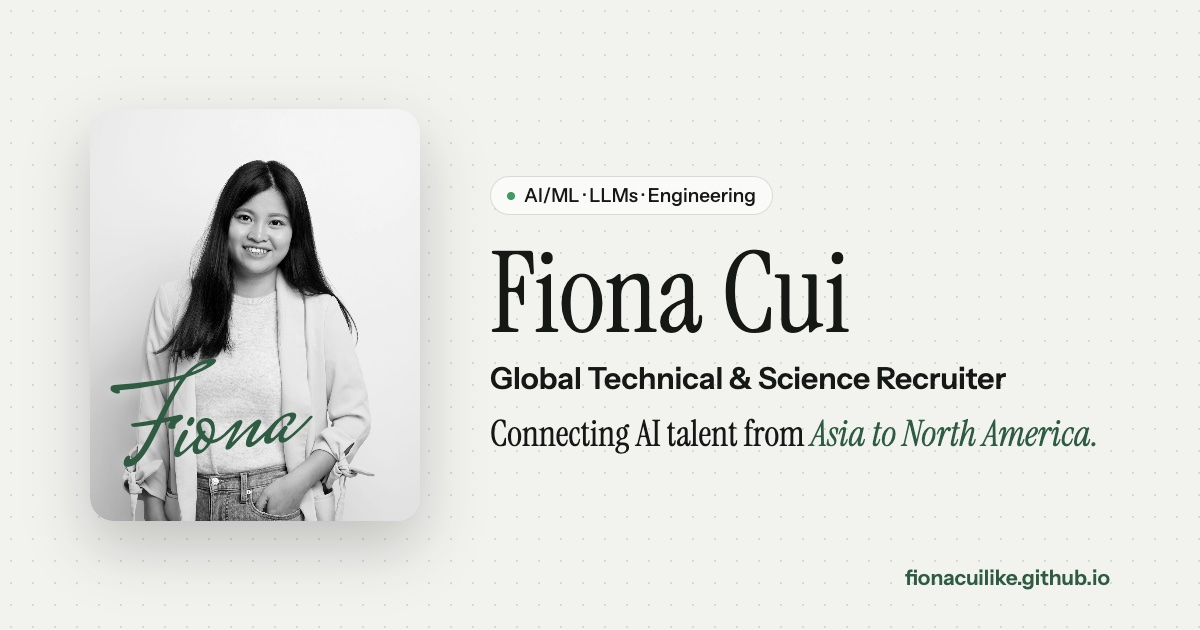
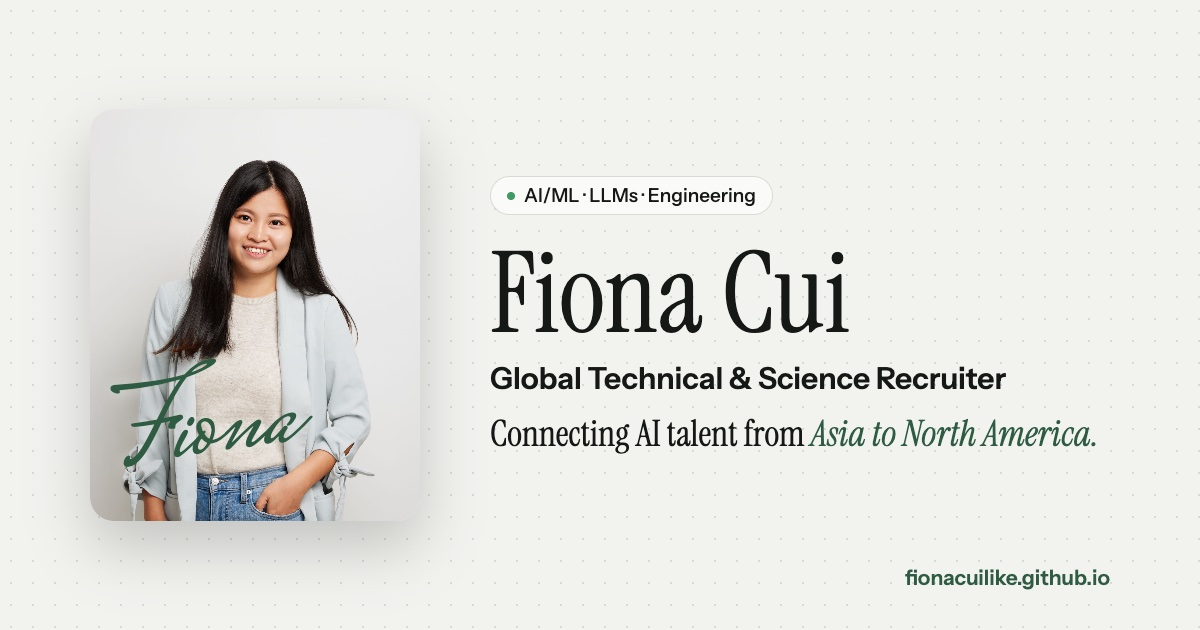
Show photos in colour
The hero portrait, Giving Back photos and social card are now in colour.
The cursor colour-reveal no longer has a purpose, so it is removed; the
grid dots still turn green near the cursor.

Changed region(s): [[0.0925, 0.6937, 0.2775, 0.8444], [0.185, 0.3016, 0.2467, 0.4825]]

diff --git a/index.html b/index.html
@@ -26,7 +26,7 @@
 
     <style>
         /* 版式：编辑风格的单栏长页。暖米灰底 + 深绿单一强调色；超大衬线标题，描边胶囊标签。
-           动效：第一屏固定滚动（全屏黑白照片 → 相框照片 + 大字名字 + 签名），鼠标聚光灯上色，
+           动效：第一屏固定滚动（全屏照片 → 相框照片 + 大字名字 + 签名），
            点阵随鼠标变绿，标签漂浮视差，横幅随滚动速度倾斜，3D 人才网络，数字计数，经历横向滑动 */
         :root {
             --bg: #f2f3ef;          /* 暖米灰底 */
@@ -79,7 +79,6 @@
         .stage { position: sticky; top: 0; height: 100vh; height: 100svh; overflow: hidden; background: var(--bg); }
         .stage canvas { position: absolute; inset: 0; width: 100%; height: 100%; pointer-events: none; }
         #dots { z-index: 4; }
-        #color { z-index: 3; }
         .marquee { position: absolute; left: 0; right: 0; z-index: 1; display: flex; overflow: hidden; pointer-events: none; user-select: none; opacity: var(--name, 1); }
         .marquee .track { display: flex; flex: none; align-items: center; gap: 0.35em; padding-right: 0.35em; font-family: var(--serif); font-size: clamp(5rem, 13vw, 11rem); line-height: 1; white-space: nowrap; color: var(--ink); animation: slide 40s linear infinite; }
         .marquee .outline { color: transparent; -webkit-text-stroke: 1.2px var(--ink); }
@@ -90,7 +89,7 @@
         @keyframes slide { to { transform: translateX(-100%); } }
 
         .photo { position: absolute; z-index: 2; overflow: hidden; left: 0; top: 0; width: 100%; height: 100%; background: #d9d9d6; will-change: left, top, width, height; }
-        .photo img { display: block; width: 100%; height: 100%; object-fit: cover; object-position: 50% 18%; filter: grayscale(1) contrast(1.05); }
+        .photo img { display: block; width: 100%; height: 100%; object-fit: cover; object-position: 50% 18%; }
         .photo::after { content: ""; position: absolute; inset: 0; background: linear-gradient(180deg, rgba(242,243,239,0.35), transparent 22%, transparent 70%, rgba(22,24,22,0.25)); opacity: var(--veil, 1); pointer-events: none; }
         .signature { position: absolute; z-index: 5; left: 50%; top: 50%; color: var(--green); font-family: var(--script); font-size: clamp(6rem, 13vw, 10rem); line-height: 1; white-space: nowrap; pointer-events: none; transform: translate(-46%, 8%) rotate(-8deg); text-shadow: 0 2px 18px rgba(250, 250, 247, 0.55); clip-path: inset(-20% calc(var(--sig, 1) * -10% + (1 - var(--sig, 1)) * 100%) -20% -10%); }
 
@@ -215,9 +214,8 @@
         .giving { display: grid; grid-template-columns: 1.05fr 1fr; gap: 56px; align-items: start; }
         .photos { position: relative; height: 470px; }
         .photos figure { position: absolute; overflow: hidden; border: 10px solid var(--paper); border-radius: 18px; background: var(--paper); box-shadow: 0 22px 50px rgba(22, 24, 22, 0.16); transition: transform 0.4s ease; }
-        .photos img { display: block; width: 100%; height: 100%; object-fit: cover; filter: grayscale(1) contrast(1.05); transition: filter 0.4s; }
+        .photos img { display: block; width: 100%; height: 100%; object-fit: cover; }
         .photos figure:hover { transform: rotate(0deg) scale(1.03) !important; z-index: 2; }
-        .photos figure:hover img { filter: none; }
         .photos .p1 { top: 0; left: 0; width: 78%; height: 300px; transform: rotate(-2.5deg); }
         .photos .p2 { right: 0; bottom: 0; width: 46%; height: 310px; transform: rotate(3deg); }
         .photos figcaption { position: absolute; left: 0; right: 0; bottom: 0; padding: 22px 12px 8px; color: white; background: linear-gradient(transparent, rgba(0,0,0,0.6)); font-size: 0.78rem; }
@@ -332,7 +330,6 @@
             </div>
 
             <div class="photo" id="photo"><img id="photo-img" src="profile.jpg" alt="Portrait of Fiona Cui"></div>
-            <canvas id="color" aria-hidden="true"></canvas>
             <canvas id="dots" aria-hidden="true"></canvas>
             <span class="signature" id="signature" aria-hidden="true">Fiona</span>
 
@@ -573,8 +570,6 @@
         const heroPin = document.getElementById('top');
         const stage = document.getElementById('stage');
         const photo = document.getElementById('photo');
-        const photoImg = document.getElementById('photo-img');
-        const colorCanvas = document.getElementById('color');
         const dotsCanvas = document.getElementById('dots');
         const signature = document.getElementById('signature');
         const chipsEl = document.getElementById('chips');
@@ -593,8 +588,7 @@
         function layout() {
             vw = document.documentElement.clientWidth;
             vh = innerHeight;
-            [colorCanvas, dotsCanvas].forEach((c) => { c.width = Math.round(vw * dpr); c.height = Math.round(vh * dpr); });
-            mask.width = Math.round(vw / 2); mask.height = Math.round(vh / 2);
+            dotsCanvas.width = Math.round(vw * dpr); dotsCanvas.height = Math.round(vh * dpr);
             // 经历：桌面端用纵向滚动距离驱动横向移动
             if (vw > 900 && !reduceMotion) {
                 expOverflow = Math.max(0, expTrack.scrollWidth - vw);
@@ -615,14 +609,8 @@
         let lastWidth = 0;
         addEventListener('resize', () => { if (document.documentElement.clientWidth !== lastWidth) { lastWidth = document.documentElement.clientWidth; layout(); } });
 
-        // ----- 1. 鼠标聚光灯：拖尾刷出彩色，慢慢消散 -----
-        const mask = document.createElement('canvas');
-        const mctx = mask.getContext('2d');
-        const cctx = colorCanvas.getContext('2d');
-        const colorImg = new Image();
-        colorImg.src = photoImg.currentSrc || photoImg.src;
+        // ----- 1. 光标位置（缓动后用于点阵） -----
         let pointer = { x: -999, y: -999, ex: -999, ey: -999, inside: false, moved: 0 };
-        let trailAlive = 0;
         stage.addEventListener('pointermove', (e) => {
             if (e.pointerType !== 'mouse') return;
             const r = stage.getBoundingClientRect();
@@ -630,54 +618,6 @@
             if (pointer.ex < -900) { pointer.ex = pointer.x; pointer.ey = pointer.y; }
         });
         stage.addEventListener('pointerleave', () => { pointer.inside = false; });
-        // 触屏：轻点一下短暂显出彩色，不影响滚动
-        stage.addEventListener('pointerdown', (e) => {
-            if (e.pointerType === 'mouse') return;
-            const r = stage.getBoundingClientRect();
-            const x = (e.clientX - r.left) / 2, y = (e.clientY - r.top) / 2;
-            for (let k = 0; k < 6; k++) brush(x, y, 90);
-            trailAlive = performance.now();
-        });
-        function brush(x, y, radius) {
-            const g = mctx.createRadialGradient(x, y, 0, x, y, radius);
-            g.addColorStop(0, 'rgba(0,0,0,0.9)'); g.addColorStop(0.6, 'rgba(0,0,0,0.35)'); g.addColorStop(1, 'rgba(0,0,0,0)');
-            mctx.fillStyle = g; mctx.beginPath(); mctx.arc(x, y, radius, 0, Math.PI * 2); mctx.fill();
-        }
-        // 与 CSS object-fit: cover + object-position: 50% 18% 相同的裁切
-        function coverRect(rx, ry, rw, rh) {
-            const iw = colorImg.naturalWidth, ih = colorImg.naturalHeight;
-            const s = Math.max(rw / iw, rh / ih), dw = iw * s, dh = ih * s;
-            return [rx + (rw - dw) * 0.5, ry + (rh - dh) * 0.18, dw, dh];
-        }
-        function drawColor(rect, radius, now) {
-            if (!colorImg.complete || !colorImg.naturalWidth) return;
-            const painting = pointer.inside && now - pointer.moved < 1200;
-            if (!painting && now - trailAlive > 5000) { if (trailAlive) { cctx.clearRect(0, 0, colorCanvas.width, colorCanvas.height); mctx.clearRect(0, 0, mask.width, mask.height); trailAlive = 0; } return; }
-            // 拖尾慢慢消散……
-            mctx.globalCompositeOperation = 'destination-out';
-            mctx.fillStyle = 'rgba(0,0,0,0.018)';
-            mctx.fillRect(0, 0, mask.width, mask.height);
-            mctx.globalCompositeOperation = 'source-over';
-            // ……画笔跟着缓动后的光标继续画
-            if (painting) {
-                pointer.ex = lerp(pointer.ex, pointer.x, 0.22); pointer.ey = lerp(pointer.ey, pointer.y, 0.22);
-                brush(pointer.ex / 2, pointer.ey / 2, Math.max(60, Math.min(vw, vh) * 0.11));
-                trailAlive = now;
-            }
-            // 彩色照片按遮罩显示
-            cctx.setTransform(dpr, 0, 0, dpr, 0, 0);
-            cctx.globalCompositeOperation = 'source-over';
-            cctx.clearRect(0, 0, vw, vh);
-            cctx.save();
-            cctx.beginPath();
-            if (cctx.roundRect) cctx.roundRect(rect.x, rect.y, rect.w, rect.h, radius); else cctx.rect(rect.x, rect.y, rect.w, rect.h);
-            cctx.clip();
-            cctx.drawImage(colorImg, ...coverRect(rect.x, rect.y, rect.w, rect.h));
-            cctx.restore();
-            cctx.globalCompositeOperation = 'destination-in';
-            cctx.drawImage(mask, 0, 0, vw, vh);
-            cctx.globalCompositeOperation = 'source-over';
-        }
 
         // ----- 2. 点阵：靠近光标的点变大变绿 -----
         const dctx = dotsCanvas.getContext('2d');
@@ -689,6 +629,7 @@
         }
         let lastDots = '';
         function drawDots(p, now) {
+            pointer.ex = lerp(pointer.ex, pointer.x, 0.22); pointer.ey = lerp(pointer.ey, pointer.y, 0.22);
             const key = [Math.round(pointer.ex), Math.round(pointer.ey), pointer.inside ? 1 : 0, Math.round(p * 100)].join();
             if (key === lastDots && now - pointer.moved > 1300) return;
             lastDots = key;
@@ -735,7 +676,6 @@
                 chip.style.setProperty('--py', (emy * 24 * depth - spread * 60 * depth) + 'px');
             });
             if (!reduceMotion) {
-                drawColor(rect, radius, now);
                 drawDots(p, now);
             }
         }
@@ -853,7 +793,6 @@
 
         layout();
         lastWidth = document.documentElement.clientWidth;
-        colorImg.onload = () => { dirty = true; };
         document.fonts && document.fonts.ready.then(layout);
         addEventListener('load', layout);
         requestAnimationFrame(tick);
